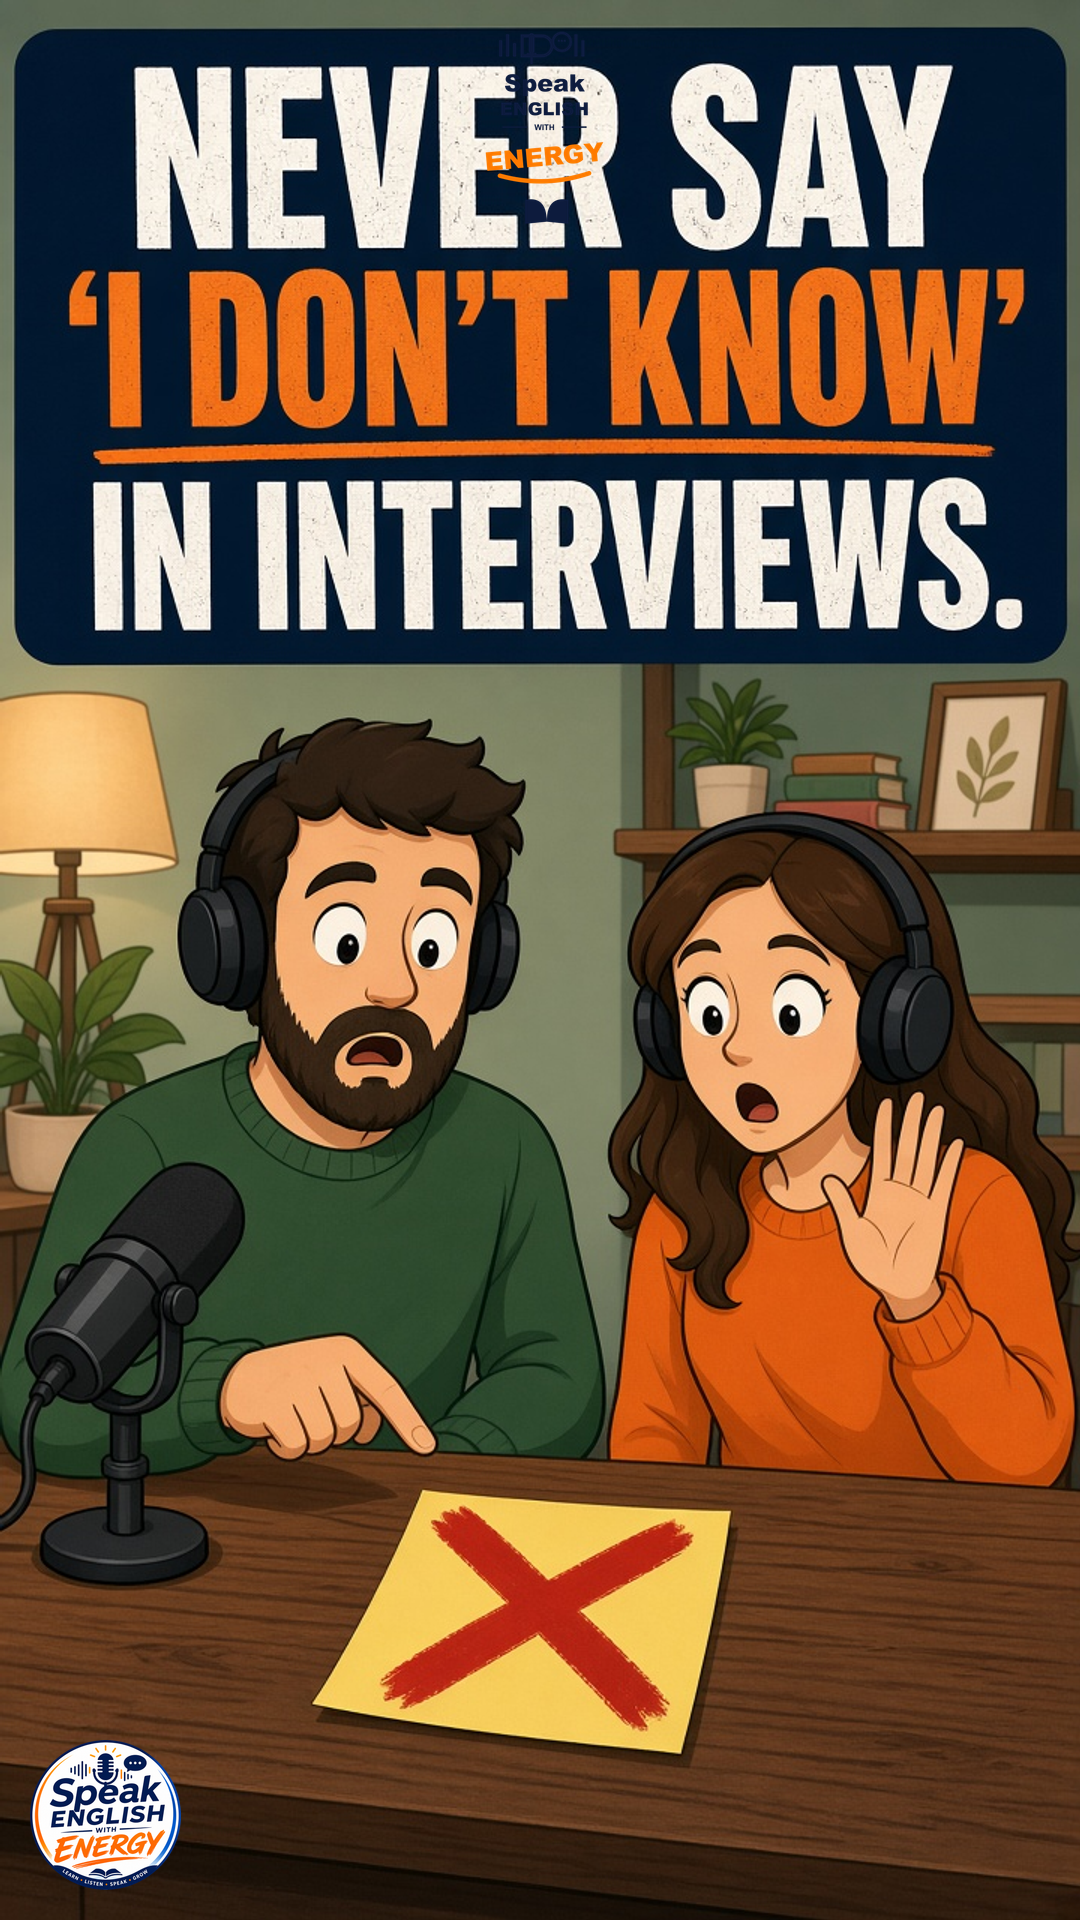
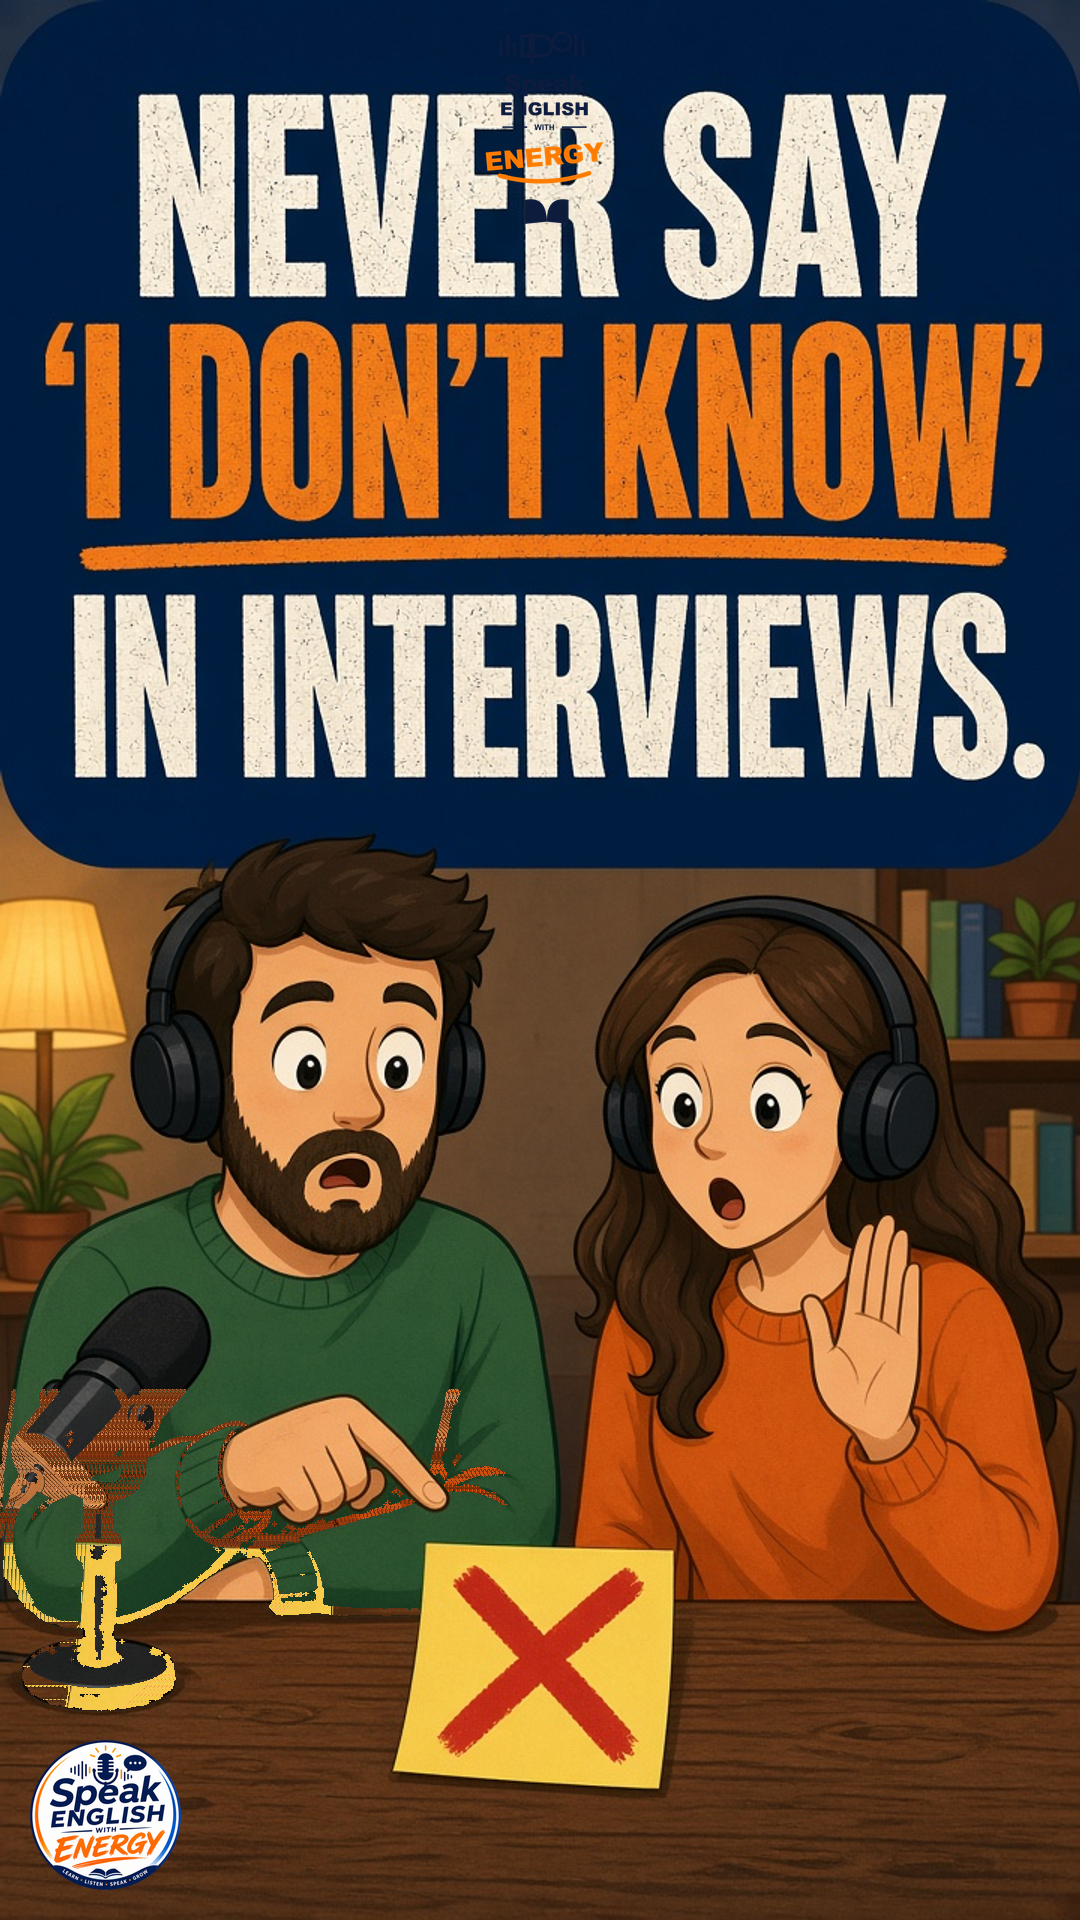
feat: enhance Cloudflare image generation support with multi-account handling; update environment configuration for Cloudflare accounts and improve error handling for daily quota exhaustion

diff --git a/src/ai/image.service.ts b/src/ai/image.service.ts
@@ -2,7 +2,15 @@ import OpenAI from 'openai';
 import fs from 'fs/promises';
 import path from 'path';
 import { Blob } from 'buffer';
-import { resolveImageProvider, type ImageProvider, type ImageProviderConfig } from './image-providers';
+import {
+  cloudflareImageModel,
+  resolveCloudflareAccounts,
+  resolveImageProvider,
+  type CloudflareAccount,
+  type ImageProvider,
+  type ImageProviderConfig,
+} from './image-providers';
+import { isQuotaError } from './llm-providers';
 import { logger } from '../utils/logger';
 
 export type ImageAspectRatio = '16:9' | '9:16' | '1:1' | '3:2' | '2:3';
@@ -24,11 +32,14 @@ type GeminiInlinePart = {
  * Thumbnails use text→image (no reference); channel logo is composited afterward.
  * No cross-provider fallback — set IMAGE_PROVIDER to choose explicitly.
  * Config resolves lazily so manual thumbnail mode can skip API keys.
+ * Cloudflare: multiple ACCOUNT_ID/TOKEN pairs rotate on daily neuron quota exhaustion.
  */
 export class ImageService {
   private resolved: ImageProviderConfig | null = null;
   private openaiClient: OpenAI | null = null;
   private readonly env: Record<string, string | undefined>;
+  /** Cloudflare account ids that hit daily free allocation — skipped for rest of process. */
+  private readonly cloudflareQuotaSkipped = new Set<string>();
 
   constructor(env: Record<string, string | undefined> = process.env) {
     this.env = env;
@@ -226,19 +237,54 @@ export class ImageService {
     referenceImages: Array<string | Buffer>,
     options?: ImageEditOptions,
   ): Promise<Buffer> {
-    const accountId = this.config.accountId;
-    if (!accountId) {
+    const accounts = resolveCloudflareAccounts(this.env);
+    if (accounts.length === 0) {
       throw new Error('CLOUDFLARE_ACCOUNT_ID is required for Cloudflare image generation');
     }
 
     const aspectRatio =
       options?.aspectRatio ?? aspectRatioFromSize(options?.size) ?? '16:9';
     const { width, height } = dimensionsForAspect(aspectRatio);
+    const model = cloudflareImageModel(this.env);
 
-    logger.info(
-      `Calling ${this.config.model} (cloudflare, ${width}x${height}) for image generation...`,
-    );
+    const usable = accounts.filter((a) => !this.cloudflareQuotaSkipped.has(a.id));
+    const queue = usable.length > 0 ? usable : accounts; // if all skipped, retry all once
+    if (usable.length === 0) {
+      this.cloudflareQuotaSkipped.clear();
+    }
 
+    let lastError: Error | undefined;
+    for (let i = 0; i < queue.length; i++) {
+      const account = queue[i]!;
+      try {
+        logger.info(
+          `Calling ${model} (cloudflare ${account.id}, ${width}x${height}) for image generation...`,
+        );
+        const form = await this.buildCloudflareForm(prompt, referenceImages, width, height);
+        return await this.runCloudflareRequest(account, model, form);
+      } catch (error) {
+        lastError = error instanceof Error ? error : new Error(String(error));
+        if (isQuotaError(error) && i < queue.length - 1) {
+          this.cloudflareQuotaSkipped.add(account.id);
+          const next = queue[i + 1]!;
+          logger.warn(
+            `${account.id} daily allocation exhausted, falling back to ${next.id}`,
+          );
+          continue;
+        }
+        throw lastError;
+      }
+    }
+
+    throw lastError ?? new Error('Cloudflare image generation failed');
+  }
+
+  private async buildCloudflareForm(
+    prompt: string,
+    referenceImages: Array<string | Buffer>,
+    width: number,
+    height: number,
+  ): Promise<FormData> {
     const form = new FormData();
     form.append('prompt', prompt);
     form.append('width', String(width));
@@ -254,11 +300,18 @@ export class ImageService {
         `reference-${i + 1}.png`,
       );
     }
+    return form;
+  }
 
-    const url = `https://api.cloudflare.com/client/v4/accounts/${accountId}/ai/run/${this.config.model}`;
+  private async runCloudflareRequest(
+    account: CloudflareAccount,
+    model: string,
+    form: FormData,
+  ): Promise<Buffer> {
+    const url = `https://api.cloudflare.com/client/v4/accounts/${account.accountId}/ai/run/${model}`;
     const response = await fetch(url, {
       method: 'POST',
-      headers: { Authorization: `Bearer ${this.config.apiKey}` },
+      headers: { Authorization: `Bearer ${account.apiKey}` },
       body: form,
     });
 

diff --git a/src/ai/image-providers.ts b/src/ai/image-providers.ts
@@ -6,8 +6,16 @@ export interface ImageProviderConfig {
   provider: ImageProvider;
   apiKey: string;
   model: string;
-  /** Cloudflare Workers AI account id. */
+  /** Cloudflare Workers AI account id (first account when multiple are configured). */
   accountId?: string;
+}
+
+/** One Cloudflare Workers AI account (account id + API token pair). */
+export interface CloudflareAccount {
+  /** Stable id for sticky quota skips, e.g. `cloudflare#1`. */
+  id: string;
+  accountId: string;
+  apiKey: string;
 }
 
 type Env = Record<string, string | undefined>;
@@ -104,9 +112,8 @@ function buildConfig(provider: ImageProvider, env: Env, requireKey: boolean): Im
 }
 
 function buildCloudflareConfig(env: Env, requireKey: boolean): ImageProviderConfig | null {
-  const accountId = env.CLOUDFLARE_ACCOUNT_ID?.trim();
-  const apiKey = env.CLOUDFLARE_API_TOKEN?.trim();
-  if (!accountId || !apiKey) {
+  const accounts = resolveCloudflareAccounts(env);
+  if (accounts.length === 0) {
     if (requireKey) {
       throw new Error(
         'CLOUDFLARE_ACCOUNT_ID and CLOUDFLARE_API_TOKEN are required when IMAGE_PROVIDER=cloudflare',
@@ -114,12 +121,53 @@ function buildCloudflareConfig(env: Env, requireKey: boolean): ImageProviderConf
     }
     return null;
   }
+  const first = accounts[0]!;
   return {
     provider: 'cloudflare',
-    apiKey,
-    accountId,
+    apiKey: first.apiKey,
+    accountId: first.accountId,
     model: env.CLOUDFLARE_IMAGE_MODEL?.trim() || DEFAULT_CLOUDFLARE_IMAGE_MODEL,
   };
+}
+
+/**
+ * Pair Cloudflare account IDs with API tokens (by index).
+ * Supports singular + plural env vars (comma / semicolon / newline separated):
+ *   CLOUDFLARE_ACCOUNT_ID / CLOUDFLARE_ACCOUNT_IDS
+ *   CLOUDFLARE_API_TOKEN  / CLOUDFLARE_API_TOKENS
+ * Order is preserved (no dedupe) so index pairing stays aligned.
+ * Exhausted accounts are skipped at call time by ImageService.
+ */
+export function resolveCloudflareAccounts(env: Env = process.env): CloudflareAccount[] {
+  const accountIds = parseListPreserveOrder(env.CLOUDFLARE_ACCOUNT_ID, env.CLOUDFLARE_ACCOUNT_IDS);
+  const tokens = parseListPreserveOrder(env.CLOUDFLARE_API_TOKEN, env.CLOUDFLARE_API_TOKENS);
+  const count = Math.min(accountIds.length, tokens.length);
+  const accounts: CloudflareAccount[] = [];
+  for (let i = 0; i < count; i++) {
+    accounts.push({
+      id: `cloudflare#${i + 1}`,
+      accountId: accountIds[i]!,
+      apiKey: tokens[i]!,
+    });
+  }
+  return accounts;
+}
+
+/** Split env lists without deduping — index pairing must stay aligned. */
+function parseListPreserveOrder(...raw: Array<string | undefined>): string[] {
+  const values: string[] = [];
+  for (const value of raw) {
+    if (!value) continue;
+    for (const part of value.split(/[,;\n\r]+/)) {
+      const trimmed = part.trim();
+      if (trimmed) values.push(trimmed);
+    }
+  }
+  return values;
+}
+
+export function cloudflareImageModel(env: Env = process.env): string {
+  return env.CLOUDFLARE_IMAGE_MODEL?.trim() || DEFAULT_CLOUDFLARE_IMAGE_MODEL;
 }
 
 function geminiApiKeys(env: Env): string[] {

diff --git a/src/ai/image-providers.test.ts b/src/ai/image-providers.test.ts
@@ -1,6 +1,6 @@
 import assert from 'node:assert/strict';
 import { describe, it } from 'node:test';
-import { resolveImageProvider } from './image-providers';
+import { resolveCloudflareAccounts, resolveImageProvider } from './image-providers';
 
 describe('resolveImageProvider', () => {
   it('defaults to Gemini when GEMINI_API_KEY is set and IMAGE_PROVIDER is unset', () => {
@@ -67,6 +67,16 @@ describe('resolveImageProvider', () => {
     assert.equal(config.model, '@cf/black-forest-labs/flux-2-dev');
   });
 
+  it('uses the first Cloudflare account when multiple are configured', () => {
+    const config = resolveImageProvider({
+      IMAGE_PROVIDER: 'cloudflare',
+      CLOUDFLARE_ACCOUNT_ID: 'acct-a,acct-b',
+      CLOUDFLARE_API_TOKEN: 'tok-a,tok-b',
+    });
+    assert.equal(config.accountId, 'acct-a');
+    assert.equal(config.apiKey, 'tok-a');
+  });
+
   it('throws when IMAGE_PROVIDER=cloudflare but credentials are missing', () => {
     assert.throws(
       () => resolveImageProvider({ IMAGE_PROVIDER: 'cloudflare', GEMINI_API_KEY: 'gem-key' }),
@@ -101,5 +111,55 @@ describe('resolveImageProvider', () => {
 
   it('throws when no image keys are configured', () => {
     assert.throws(() => resolveImageProvider({}), /No image API key/);
+  });
+});
+
+describe('resolveCloudflareAccounts', () => {
+  it('pairs account IDs with tokens by index', () => {
+    const accounts = resolveCloudflareAccounts({
+      CLOUDFLARE_ACCOUNT_ID: 'acct-a, acct-b',
+      CLOUDFLARE_API_TOKEN: 'tok-a;tok-b',
+    });
+    assert.deepEqual(accounts, [
+      { id: 'cloudflare#1', accountId: 'acct-a', apiKey: 'tok-a' },
+      { id: 'cloudflare#2', accountId: 'acct-b', apiKey: 'tok-b' },
+    ]);
+  });
+
+  it('merges plural env vars with singular', () => {
+    const accounts = resolveCloudflareAccounts({
+      CLOUDFLARE_ACCOUNT_ID: 'acct-a',
+      CLOUDFLARE_ACCOUNT_IDS: 'acct-b',
+      CLOUDFLARE_API_TOKEN: 'tok-a',
+      CLOUDFLARE_API_TOKENS: 'tok-b',
+    });
+    assert.equal(accounts.length, 2);
+    assert.equal(accounts[0]?.accountId, 'acct-a');
+    assert.equal(accounts[1]?.accountId, 'acct-b');
+  });
+
+  it('pairs only up to the shorter list length', () => {
+    const accounts = resolveCloudflareAccounts({
+      CLOUDFLARE_ACCOUNT_ID: 'acct-a,acct-b,acct-c',
+      CLOUDFLARE_API_TOKEN: 'tok-a,tok-b',
+    });
+    assert.equal(accounts.length, 2);
+    assert.equal(accounts[1]?.accountId, 'acct-b');
+  });
+
+  it('keeps duplicate account IDs so token pairing stays aligned', () => {
+    const accounts = resolveCloudflareAccounts({
+      CLOUDFLARE_ACCOUNT_ID: 'same-acct,same-acct',
+      CLOUDFLARE_API_TOKEN: 'tok-a,tok-b',
+    });
+    assert.equal(accounts.length, 2);
+    assert.equal(accounts[0]?.accountId, 'same-acct');
+    assert.equal(accounts[1]?.accountId, 'same-acct');
+    assert.equal(accounts[0]?.apiKey, 'tok-a');
+    assert.equal(accounts[1]?.apiKey, 'tok-b');
+  });
+
+  it('returns empty when credentials are missing', () => {
+    assert.deepEqual(resolveCloudflareAccounts({}), []);
   });
 });

diff --git a/src/ai/image.service.cloudflare.test.ts b/src/ai/image.service.cloudflare.test.ts
@@ -1,0 +1,78 @@
+import assert from 'node:assert/strict';
+import { afterEach, describe, it } from 'node:test';
+import { ImageService } from './image.service';
+
+describe('ImageService Cloudflare multi-account failover', () => {
+  const originalFetch = globalThis.fetch;
+
+  afterEach(() => {
+    globalThis.fetch = originalFetch;
+  });
+
+  it('falls back to the next Cloudflare account when daily neurons are exhausted', async () => {
+    const calls: string[] = [];
+    globalThis.fetch = (async (input: RequestInfo | URL) => {
+      const url = String(input);
+      calls.push(url);
+      if (url.includes('/accounts/acct-a/')) {
+        return new Response(
+          JSON.stringify({
+            success: false,
+            errors: [
+              {
+                message:
+                  'AiError: you have used up your daily free allocation of 10,000 neurons, please upgrade',
+              },
+            ],
+          }),
+          { status: 400, headers: { 'content-type': 'application/json' } },
+        );
+      }
+      // Second account succeeds with raw image bytes
+      return new Response(Buffer.from('fake-png'), {
+        status: 200,
+        headers: { 'content-type': 'image/png' },
+      });
+    }) as typeof fetch;
+
+    const service = new ImageService({
+      IMAGE_PROVIDER: 'cloudflare',
+      CLOUDFLARE_ACCOUNT_ID: 'acct-a,acct-b',
+      CLOUDFLARE_API_TOKEN: 'tok-a,tok-b',
+    });
+
+    const buf = await service.generateImage('a cute podcast studio');
+    assert.equal(buf.toString(), 'fake-png');
+    assert.equal(calls.length, 2);
+    assert.match(calls[0]!, /\/accounts\/acct-a\//);
+    assert.match(calls[1]!, /\/accounts\/acct-b\//);
+
+    // Sticky skip: next call should go straight to acct-b
+    calls.length = 0;
+    await service.generateImage('another prompt');
+    assert.equal(calls.length, 1);
+    assert.match(calls[0]!, /\/accounts\/acct-b\//);
+  });
+
+  it('does not fall back on non-quota Cloudflare errors', async () => {
+    globalThis.fetch = (async () =>
+      new Response(
+        JSON.stringify({
+          success: false,
+          errors: [{ message: 'Authentication error' }],
+        }),
+        { status: 401, headers: { 'content-type': 'application/json' } },
+      )) as typeof fetch;
+
+    const service = new ImageService({
+      IMAGE_PROVIDER: 'cloudflare',
+      CLOUDFLARE_ACCOUNT_ID: 'acct-a,acct-b',
+      CLOUDFLARE_API_TOKEN: 'tok-a,tok-b',
+    });
+
+    await assert.rejects(
+      () => service.generateImage('prompt'),
+      /Authentication error/,
+    );
+  });
+});

diff --git a/src/ai/llm-providers.test.ts b/src/ai/llm-providers.test.ts
@@ -15,6 +15,17 @@ describe('isQuotaError', () => {
     assert.equal(isQuotaError({ status: 429, message: 'Too Many Requests' }), true);
   });
 
+  it('treats Cloudflare daily neuron allocation as quota', () => {
+    assert.equal(
+      isQuotaError({
+        status: 400,
+        message:
+          'AiError: you have used up your daily free allocation of 10,000 neurons, please upgrade',
+      }),
+      true,
+    );
+  });
+
   it('treats Gemini RESOURCE_EXHAUSTED as quota', () => {
     assert.equal(
       isQuotaError({

diff --git a/src/ai/llm-providers.ts b/src/ai/llm-providers.ts
@@ -112,6 +112,10 @@ export function isQuotaError(error: unknown): boolean {
   if (/payment required|visit your billing/i.test(message)) {
     return true;
   }
+  // Cloudflare Workers AI free tier: "used up your daily free allocation of … neurons"
+  if (/daily free allocation|used up your.*neurons|\bneurons\b/i.test(message)) {
+    return true;
+  }
   return /quota|rate.?limit|resource.?exhausted|too many requests/i.test(message);
 }
 
